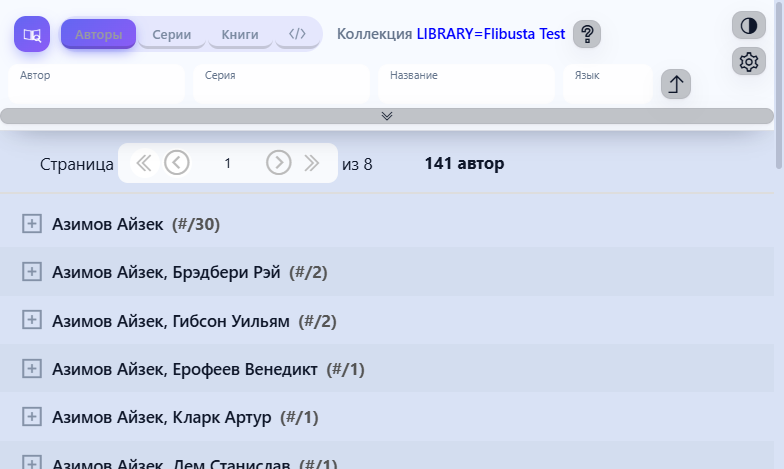
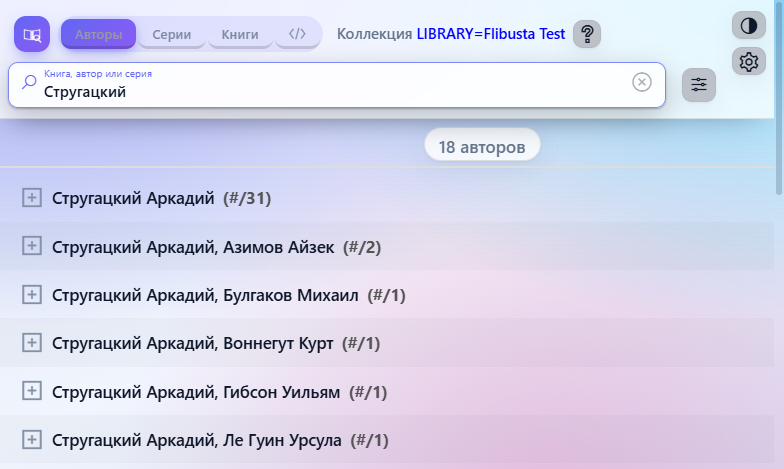
quick search: single input with author/series/title cascade; collapsible advanced filters; book cards, glass background fixes

Changed region(s): [[0.0, 0.0, 1.0, 1.0], [0.4898, 0.1493, 0.551, 0.1791]]

diff --git a/client/components/Search/Search.vue b/client/components/Search/Search.vue
@@ -57,7 +57,40 @@
                                 </DivBtn>
                             </div>
                         </div>
-                        <div v-show="!isExtendedSearch" class="row q-mx-sm q-mb-xs items-center" style="max-width: 1024px">
+                        <!-- Однострочный поиск: сам определяет, что ввели -->
+                        <div v-show="!isExtendedSearch" class="quick-bar row items-center q-mx-sm q-mb-xs no-wrap">
+                            <q-input
+                                v-model="quickQuery" class="col quick-input" outlined dense clearable
+                                :maxlength="5000" label="Книга, автор или серия"
+                                @update:model-value="onQuickInput"
+                                @keyup.enter="runQuickSearch()"
+                            >
+                                <template #prepend>
+                                    <q-icon name="la la-search" />
+                                </template>
+                                <template v-if="quickBusy" #append>
+                                    <q-icon name="la la-spinner icon-rotate" />
+                                </template>
+                            </q-input>
+
+                            <DivBtn
+                                class="q-ml-sm" :class="{'filters-open': filtersOpen}"
+                                :size="34" :icon-size="20" icon="la la-sliders-h" round
+                                @click.stop.prevent="toggleFilters()"
+                            >
+                                <template #tooltip>
+                                    <q-tooltip :delay="1500" anchor="bottom middle" content-style="font-size: 80%" max-width="400px">
+                                        Поля поиска: автор, серия, название, язык, жанр
+                                    </q-tooltip>
+                                </template>
+                            </DivBtn>
+                        </div>
+
+                        <div v-show="quickStatus" class="row q-mx-md q-mb-xs items-center text-grey-7" style="font-size: 90%">
+                            {{ quickStatus }}
+                        </div>
+
+                        <div v-show="!isExtendedSearch && filtersOpen" class="row q-mx-sm q-mb-xs items-center" style="max-width: 1024px">
                             <q-input
                                 ref="authorInput" v-model="search.author" :maxlength="5000" :debounce="inputDebounce"
                                 class="q-mt-xs col-3" :bg-color="inputBgColor('author')" style="min-width: 140px" label="Автор" stack-label outlined dense clearable
@@ -111,7 +144,7 @@
                                 </template>
                             </DivBtn>
                         </div>
-                        <div v-show="!isExtendedSearch && extendedParams" class="row q-mx-sm q-mb-xs items-center" style="max-width: 1024px">
+                        <div v-show="!isExtendedSearch && extendedParams && filtersOpen" class="row q-mx-sm q-mb-xs items-center" style="max-width: 1024px">
                             <q-input
                                 v-model="genreNames" :maxlength="inputMaxLength" :debounce="inputDebounce"
                                 class="q-mt-xs col-3" :bg-color="inputBgColor()" input-style="cursor: pointer" style="min-width: 140px;" label="Жанр" stack-label outlined dense clearable readonly
@@ -303,7 +336,7 @@
                 <!-- 2 -->
                 <div class="column">
                     <DivBtn
-                        v-show="!isExtendedSearch && (extendedParams || !extendedParamsMessage)"
+                        v-show="false"
                         class="text-grey-6" :size="16" :icon-size="14"
                         :icon="(extendedParams ? 'la la-angle-double-up' : 'la la-angle-double-down')"
                         no-shadow
@@ -565,6 +598,14 @@ class Search {
     genreTreeInpxHash = '';
     showTooltips = true;
 
+    //quick search (однострочный поиск)
+    quickQuery = '';
+    quickStatus = '';
+    quickBusy = false;
+    quickTimer = null;
+    quickPending = null;
+    filtersOpen = false;
+
     bookInfo = {};
 
     searchDateOptions = [
@@ -577,6 +618,92 @@ class Search {
         {label: 'за 3 месяца', value: '3months'},
         {label: 'выбрать даты', value: 'manual'},
     ];
+
+    //--- quick search --------------------------------------------------------
+    toggleFilters() {
+        this.filtersOpen = !this.filtersOpen;
+        if (this.filtersOpen)
+            this.extendedParams = true;
+    }
+
+    onQuickInput(value) {
+        clearTimeout(this.quickTimer);
+
+        const q = (value || '').trim();
+        if (!q) {
+            this.quickStatus = '';
+            return;
+        }
+
+        this.quickTimer = setTimeout(() => { this.runQuickSearch(q); }, 420);
+    }
+
+    // Ищет введённую строку по очереди как автора, серию и название.
+    // Останавливается на первом непустом результате и переключает вкладку.
+    async runQuickSearch(value) {
+        const q = (value === undefined ? this.quickQuery : value || '').trim();
+        if (!q)
+            return;
+
+        if (this.quickBusy) {
+            this.quickPending = q;
+            return;
+        }
+
+        this.quickBusy = true;
+        this.quickStatus = 'Ищу…';
+
+        try {
+            const base = {limit: this.limit || 20, page: 1, offset: 0, del: '0'};
+            const attempts = [
+                {list: 'author', field: 'author', query: {author: q}},
+                {list: 'series', field: 'series', query: {series: q}},
+                {list: 'title', field: 'title', query: {title: q}},
+            ];
+
+            let hit = null;
+            for (const a of attempts) {
+                let res = null;
+                try {
+                    res = await this.api.search(a.list, Object.assign({}, base, a.query));
+                } catch (e) {
+                    continue;
+                }
+                const total = (res && res.totalFound !== undefined)
+                    ? res.totalFound
+                    : (res && res.found ? res.found.length : 0);
+
+                if (total > 0) {
+                    hit = Object.assign({total}, a);
+                    break;
+                }
+            }
+
+            if (!hit) {
+                this.quickStatus = `Ничего не найдено: «${q}»`;
+                return;
+            }
+
+            this.quickStatus = '';
+
+            if (this.selectedList !== hit.list)
+                this.selectedList = hit.list;
+
+            const s = this.search;
+            s.author = '';
+            s.series = '';
+            s.title = '';
+            s.page = 1;
+            s[hit.field] = q;
+        } finally {
+            this.quickBusy = false;
+            if (this.quickPending) {
+                const next = this.quickPending;
+                this.quickPending = null;
+                this.runQuickSearch(next);
+            }
+        }
+    }
 
     generateDefaults(obj, fields) {
         obj.setDefaults = (self, value = {}) => {

diff --git a/client/theme.css b/client/theme.css
@@ -89,10 +89,13 @@ body[data-theme="dark"] {
 body, html, #app {
     font: 400 14px/1.45 var(--font-ui) !important;
     color: var(--fg);
-    background: var(--bg-0);
     -webkit-font-smoothing: antialiased;
     text-rendering: optimizeLegibility;
 }
+
+/* фон рисует только body: #app не должен перекрывать градиент сплошным цветом */
+#app { background: transparent !important; }
+body { background-color: var(--bg-0); }
 
 body {
     background:
@@ -155,6 +158,31 @@ a { color: var(--accent); }
 }
 .tool-panel .header div[style*="font-size: 150%"] > .q-mr-xs { color: var(--fg-muted); font-weight: 500; }
 
+/* --- quick search (однострочный поиск) ---------------------------------- */
+.quick-bar {
+    max-width: 1024px;
+    gap: 8px;
+    margin-top: 2px;
+}
+
+.quick-input .q-field__control {
+    height: 46px !important;
+    border-radius: var(--radius-md) !important;
+    background: var(--surface) !important;
+    box-shadow: var(--shadow-1);
+}
+.quick-input .q-field__control:before { border: 1px solid var(--border) !important; border-radius: var(--radius-md) !important; }
+.quick-input.q-field--focused .q-field__control:after { border-radius: var(--radius-md) !important; }
+.quick-input .q-field__native { font-size: 15px; font-weight: 500; }
+.quick-input .q-field__label { font-size: 13px; }
+.quick-input .q-field__prepend .q-icon { color: var(--accent); font-size: 18px; }
+
+.filters-open {
+    background: var(--accent-soft) !important;
+    color: var(--accent) !important;
+    border-color: transparent !important;
+}
+
 /* --- segmented tabs ------------------------------------------------------ */
 .q-btn-toggle {
     background: var(--accent-soft) !important;
@@ -188,7 +216,8 @@ a { color: var(--accent); }
     border-radius: var(--radius-sm) !important;
     transition: box-shadow .16s ease, border-color .16s ease;
 }
-.q-field--outlined .q-field__control:before { border: 1px solid var(--border) !important; border-radius: var(--radius-sm) !important; }
+.q-field--outlined .q-field__control:before { border: 1px solid var(--border-strong) !important; border-radius: var(--radius-sm) !important; }
+.q-field--outlined { background: transparent; }
 .q-field--outlined .q-field__control:hover:before { border-color: var(--border-strong) !important; }
 .q-field--outlined.q-field--focused .q-field__control:after {
     border: 1.5px solid var(--accent) !important;
@@ -237,6 +266,21 @@ a { color: var(--accent); }
 /* страница N из M */
 .tool-panel div[style*="130%"], .tool-panel .text-body2 { color: var(--fg-muted); }
 
+/* счётчик результатов */
+.row.items-center.q-ml-lg.q-mt-sm > .text-bold {
+    display: inline-flex;
+    align-items: center;
+    padding: 6px 14px;
+    border-radius: 999px;
+    background: var(--surface);
+    border: 1px solid var(--border);
+    box-shadow: var(--shadow-1);
+    color: var(--fg-muted);
+    font-size: 13px;
+    font-weight: 600;
+    letter-spacing: 0.01em;
+}
+
 /* --- list rows ---------------------------------------------------------- */
 .odd-item { background: var(--row-alt) !important; }
 
@@ -268,14 +312,38 @@ a { color: var(--accent); }
 .text-blue-10, .text-blue-8 { color: var(--accent) !important; }
 .text-red, .text-red-10 { color: #f87171 !important; }
 
-/* строки книг */
-.book-row {
+/* строки книг — карточки */
+.book-row { background: transparent; }
+
+div.row.items-center.q-my-sm.no-wrap {
+    background: var(--surface);
+    border: 1px solid var(--border);
     border-radius: var(--radius-md);
-    margin: 2px 10px;
-    padding: 4px 8px;
-    transition: background .14s ease;
+    padding: 7px 12px;
+    margin: 4px 0;
+    transition: background .15s ease, border-color .15s ease, box-shadow .15s ease, transform .15s ease;
 }
-.book-row:hover { background: var(--row-hover); }
+div.row.items-center.q-my-sm.no-wrap:hover {
+    background: var(--surface-hover);
+    border-color: var(--border-strong);
+    box-shadow: var(--shadow-1);
+    transform: translateY(-1px);
+}
+
+/* действия в строке книги: (инфо) (скачать) (читать) и копирование */
+div.row.items-center.q-my-sm.no-wrap .clickable {
+    padding: 2px 9px;
+    border-radius: 999px;
+    background: var(--accent-soft);
+    color: var(--accent) !important;
+    font-size: 12.5px;
+    font-weight: 500;
+    line-height: 1.5;
+    transition: background .15s ease, color .15s ease;
+    white-space: nowrap;
+}
+div.row.items-center.q-my-sm.no-wrap .clickable:hover { background: var(--accent); color: var(--accent-fg) !important; }
+div.row.items-center.q-my-sm.no-wrap .clickable .q-icon { font-size: 14px; }
 
 /* иконки-аккордеоны */
 .q-icon.la-plus-square, .q-icon.la-minus-square {

diff --git a/README.md b/README.md
@@ -21,12 +21,25 @@
 | `client/theme.css` | новый слой оформления: CSS-переменные палитры, стеклянная шапка (`backdrop-filter`), pill-табы, поля, строки списка, диалоги, тултипы, мобильные правила |
 | `client/theme.js` | `initTheme()` / `toggleTheme()`: `localStorage['inpx-theme']` → `body[data-theme]`; без явного выбора — по `prefers-color-scheme` |
 | `client/main.js` | подключение `theme.css` и `initTheme()` |
-| `client/components/Search/Search.vue` | кнопка переключения темы в шапке (рядом с настройками) |
+| `client/components/Search/Search.vue` | кнопка переключения темы; **однострочный поиск** (см. ниже); остальные поля — в раскрывающемся блоке |
 | `client/components/Search/assets/logo.png` | новая иконка книги в градиентной плашке |
 | `build/webpack.*.config.js` | фикс `CopyWebpackPlugin` для сборки на Windows (`from: '*'` вместо абсолютного glob) |
 
 Логика (`client/store`, `BaseList.js`, WS-протокол, `server/`) не тронута —
 только оформление и две вставки в разметку.
+
+## Однострочный поиск
+
+Поле «Книга, автор или серия» в шапке понимает ввод без выбора поля. Строка
+проверяется каскадом через WS-API: сначала как **автор**, затем как **серия**,
+затем как **название**; на первом непустом результате вкладка переключается на
+соответствующий список. Ничего не найдено — показывается статус, вкладка не
+меняется.
+
+Развёрнутый поиск (автор / серия / название / язык / жанр / дата / оценка / тип
+файла) живёт под кнопкой с ползунками рядом с полем — при раскрытии включаются и
+дополнительные критерии. Логика списков (`BaseList`, `getQuery`) не менялась:
+короткий поиск просто проставляет нужное поле в `search` и вкладку.
 
 ## Сборка
 
